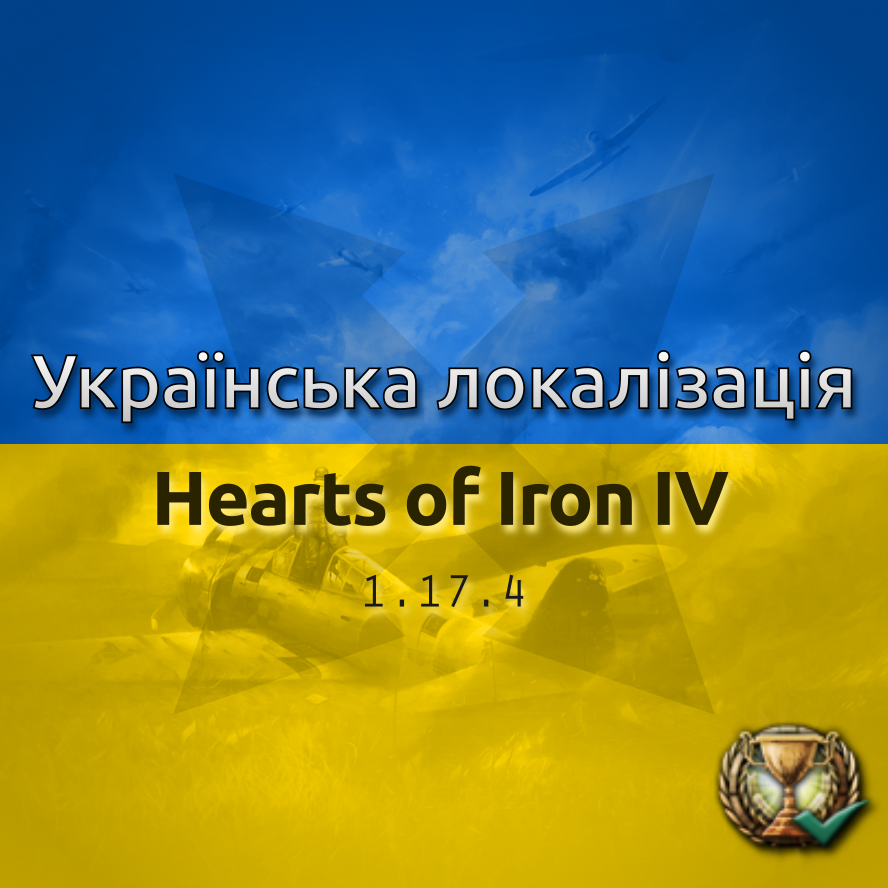
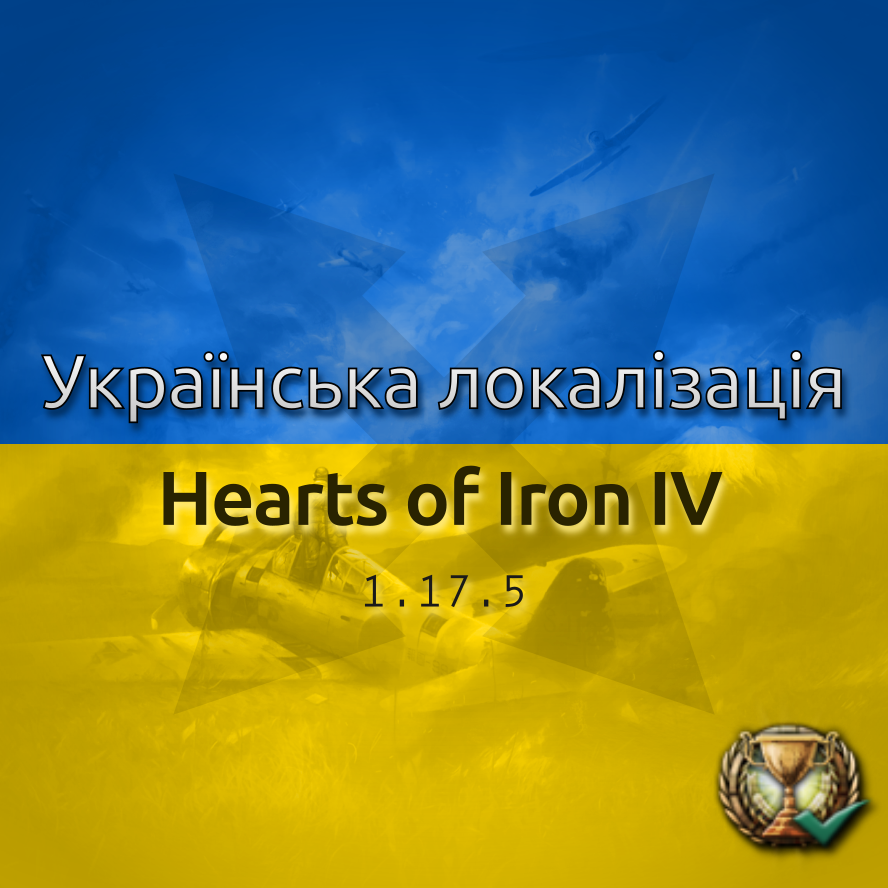
Оновлення 1.17.5

diff --git a/README.md b/README.md
@@ -1,4 +1,4 @@
-Це&nbsp;— *GitHub*-репозиторій нині найпопулярнішого українського перекладу *Hearts of Iron IV*. Переклад оновлений до версії гри ***1.17.4***.
+Це&nbsp;— *GitHub*-репозиторій нині найпопулярнішого українського перекладу *Hearts of Iron IV*. Переклад оновлений до версії гри ***1.17.5***.
 
 **Переклад досі не завершений і потребує значного переписання.**
 
